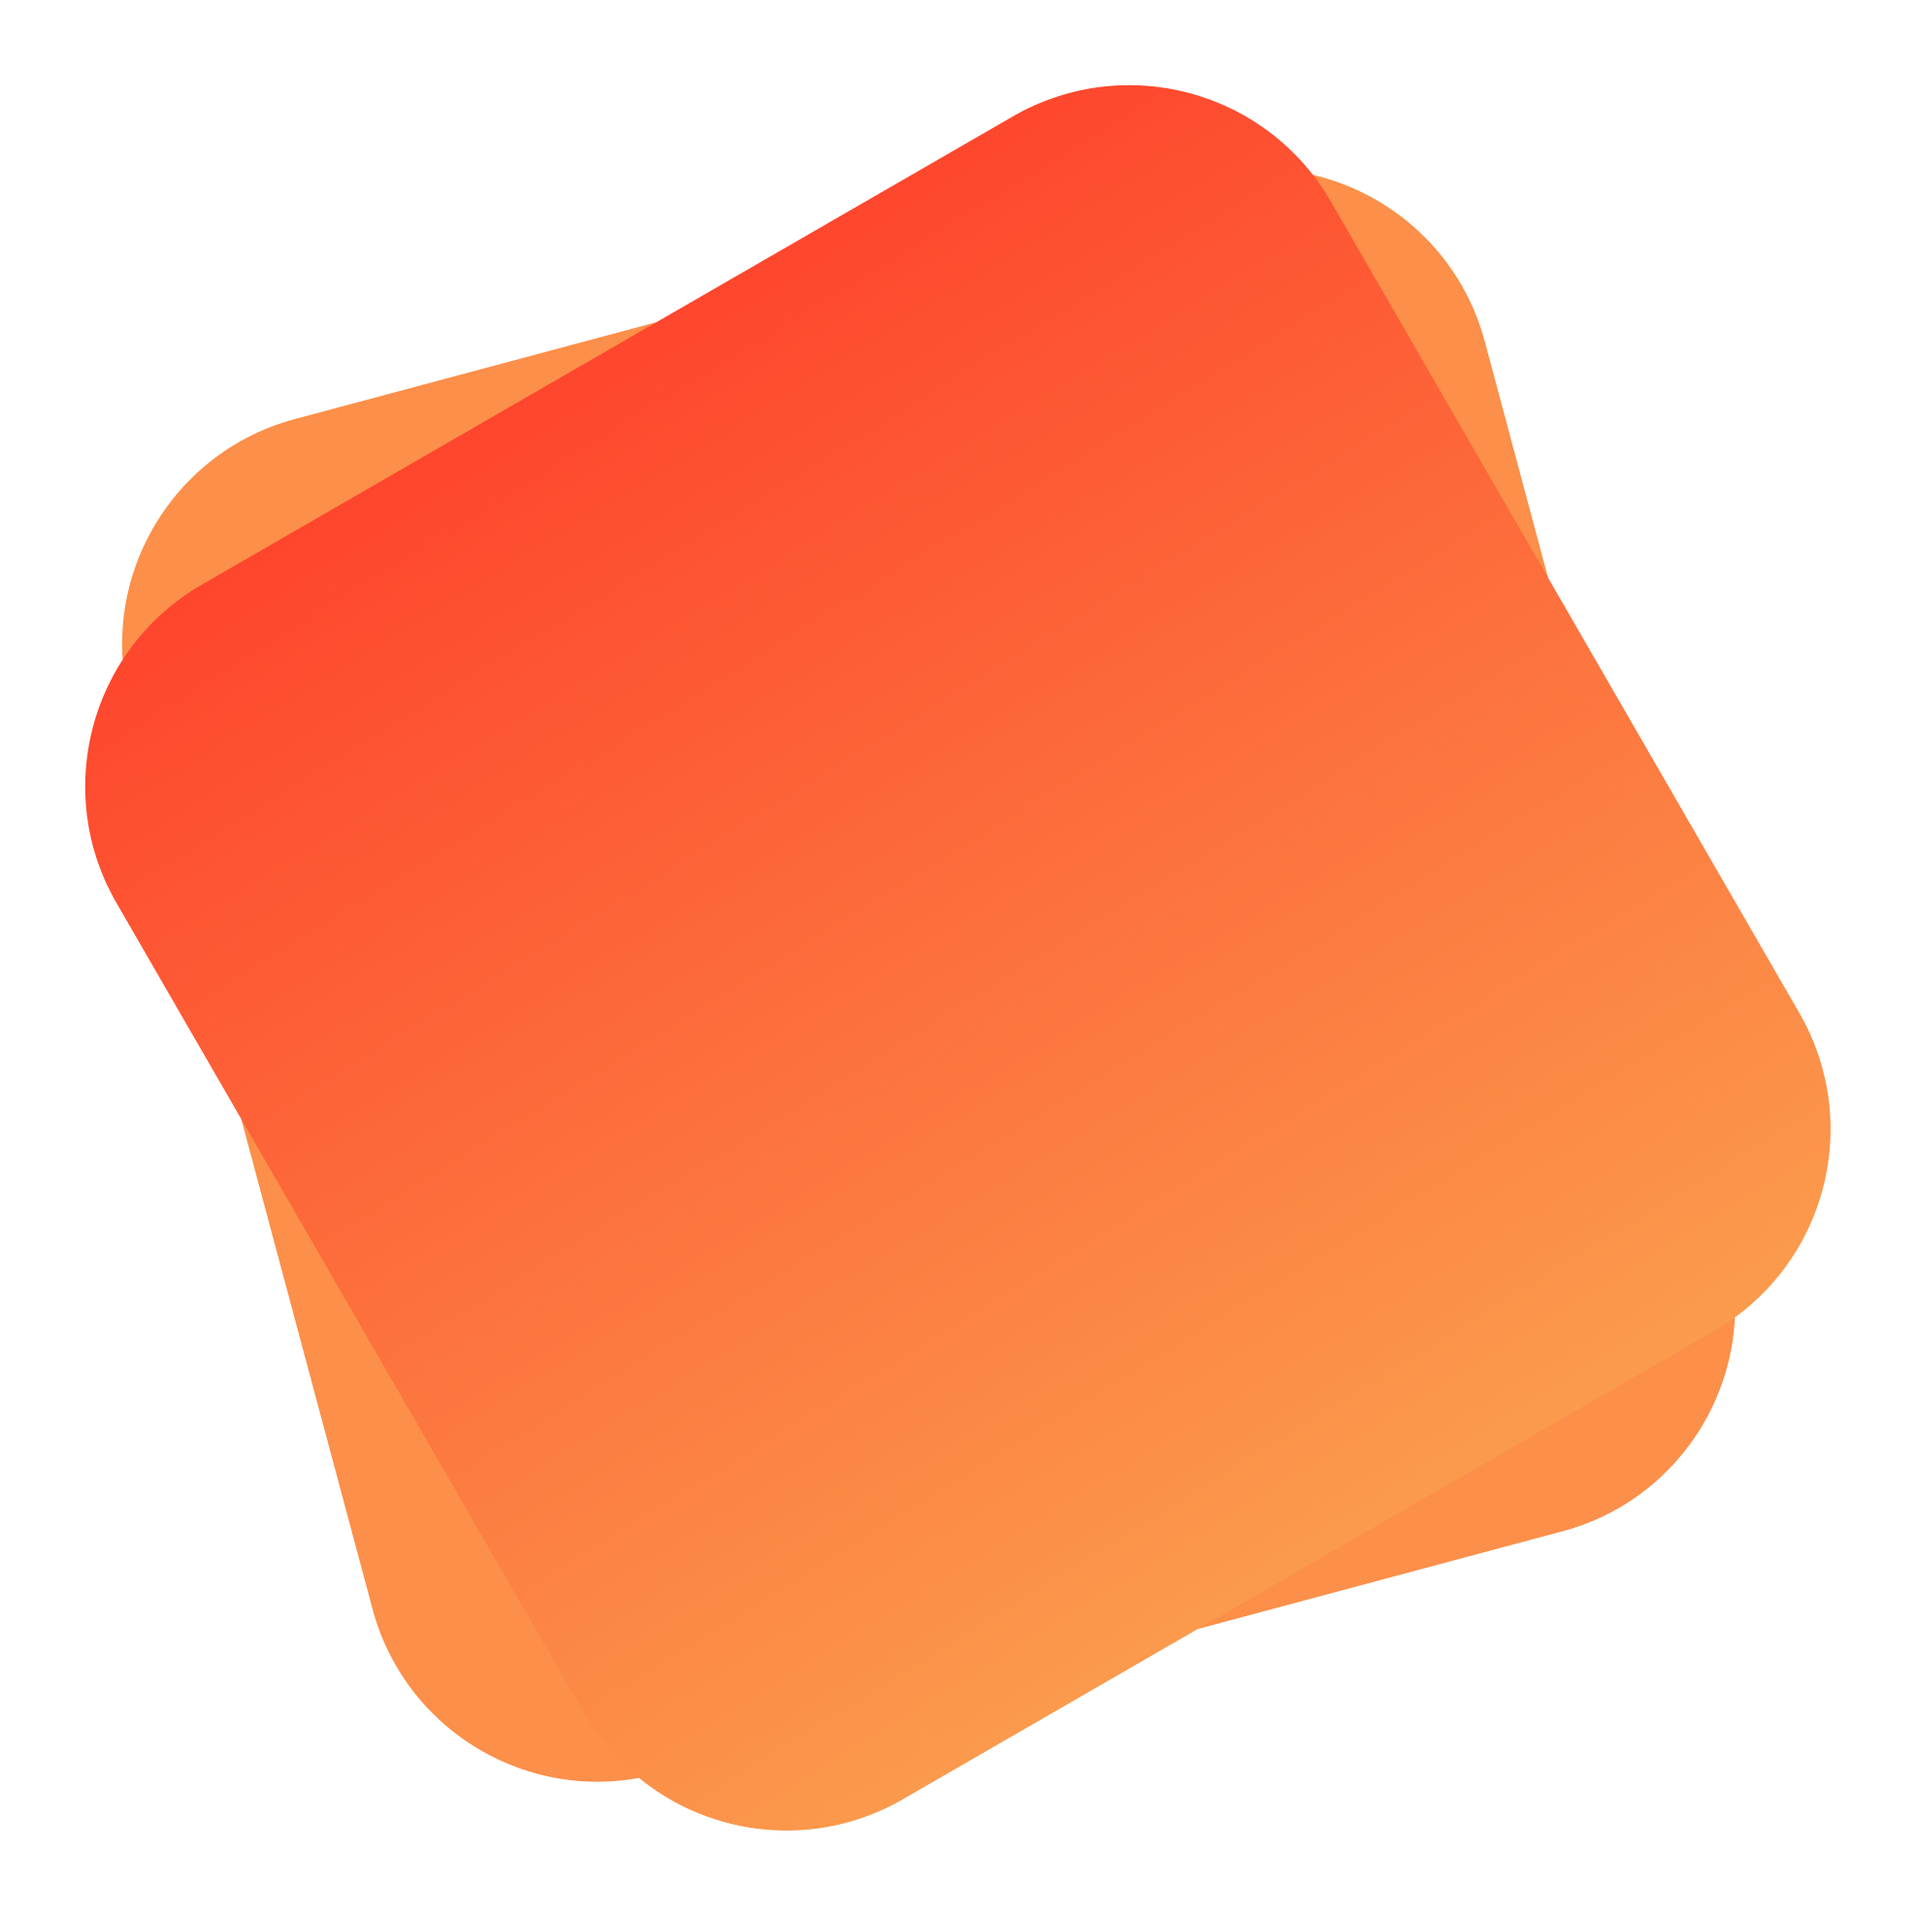
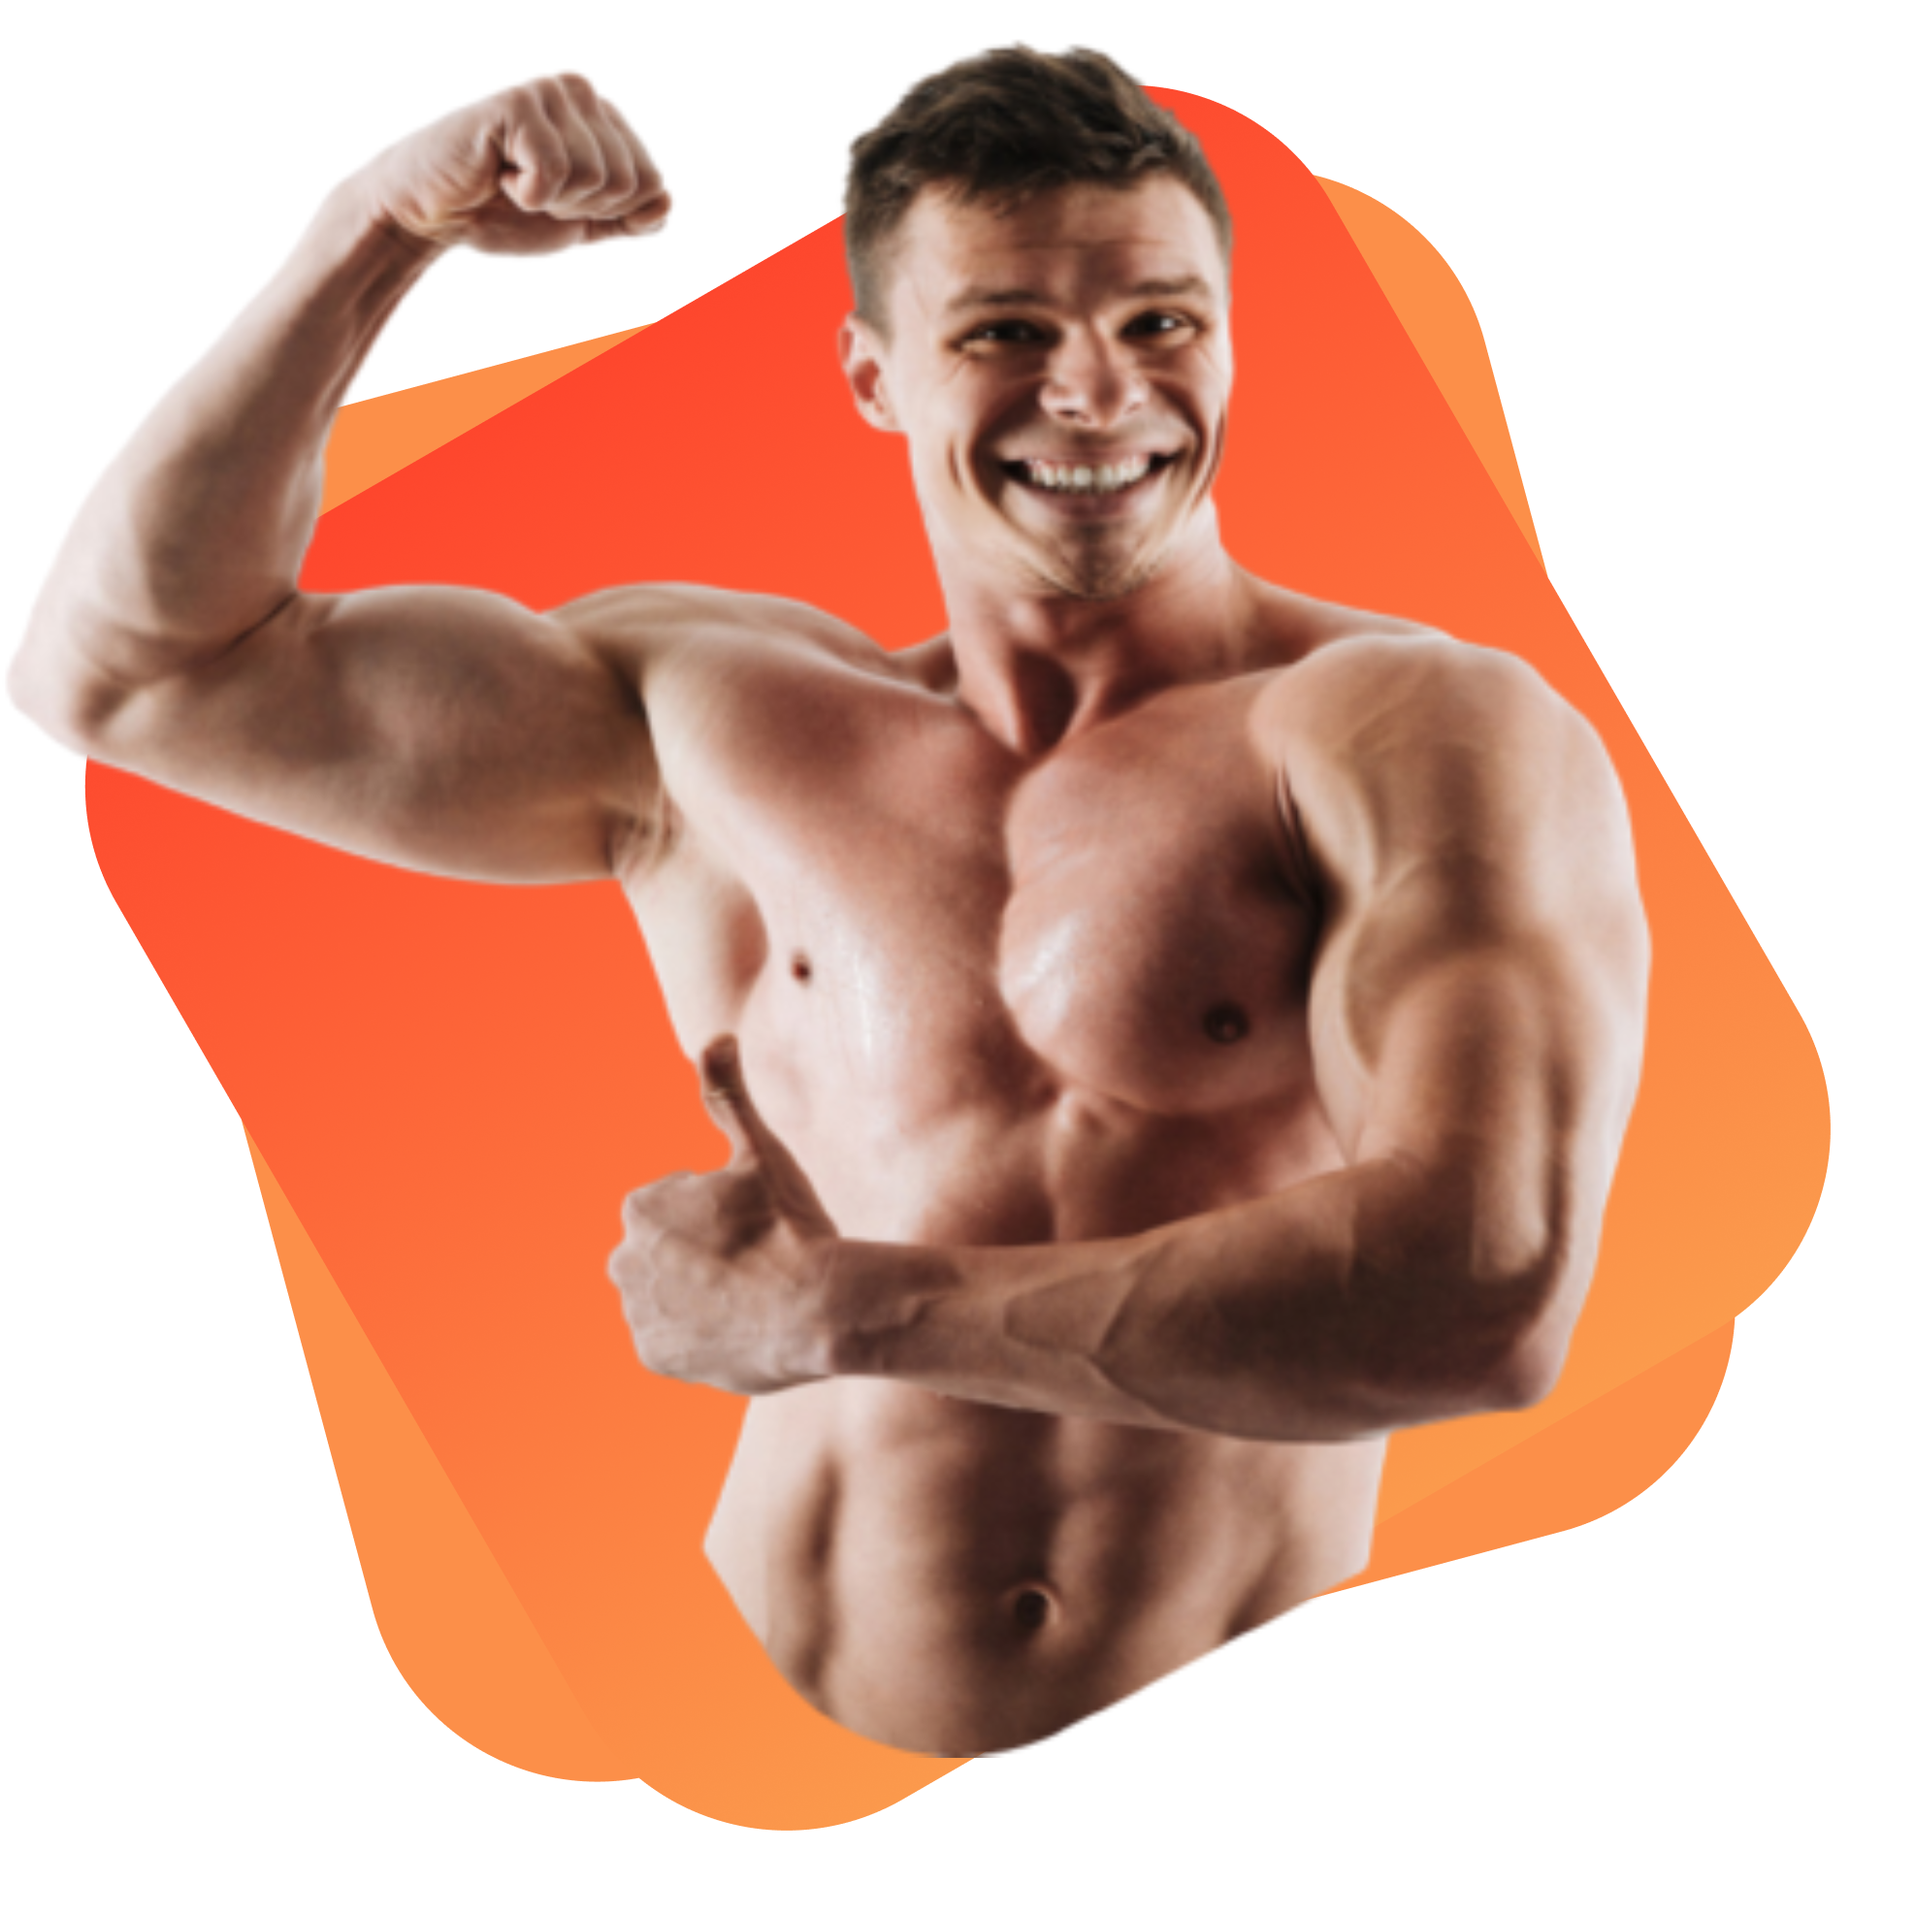
new

diff --git a/index.html b/index.html
@@ -6,7 +6,7 @@
   <meta charset="UTF-8">
   <meta http-equiv="X-UA-Compatible" content="IE=edge">
   <meta name="viewport" content="width=device-width, initial-scale=1.0">
-  <title>Sylhet_Tragedy</title>
+  <title>Eat_Healthy</title>
   <!-- Google Fonts -->
   <link rel="preconnect" href="https://fonts.googleapis.com">
   <link rel="preconnect" href="https://fonts.gstatic.com" crossorigin>
@@ -16,10 +16,100 @@
   <!-- Google Fonts -->
 
   <!-- css link -->
-  <link rel="stylesheet" href="css/style.css">
+  <link rel="stylesheet" href="style.css">
   <!-- css link -->
 </head>
 <body>
+<section id="banner">
+  <div class="food_network">
+    <h1> <span>Skip</span> The Diet,Just Eat Healthy with Food Network</h1>
+    <p>Imagine you don't need a diet because we provide a healthy and delicious food for you</p>
+    <a href="#">order food</a>
+  </div>
+  <div class="ban_img">
+    <img  style="width:600px ;"  src="iamges/Group 8450.png" alt="">
+  </div>
+</section>
+
+<!-- about section start -->
+
+<section id="about">
+  <div class="about_image">
+<img src="iamges/Person Image.png" alt="">
+  </div>
+
+  <div class="about_text">
+    <h1>About Me</h1>
+    <p>Lorem ipsum dolor sit, amet consectetur adipisicing elit. Illum, reprehenderit eius? Tempora corrupti, numquam voluptatibus error cum ullam impedit quaerat.
+    </p>
+    <a href="#">contact me</a>
+  </div>
+</section>
+<!-- about section end -->
+
+
+<!-- recipie section start -->
+<section>
+  <div class="recipie_text">
+    <h1>About Me</h1>
+    <p>Lorem ipsum dolor, sit amet consectetur adipisicing elit. Blanditiis ad illum repellat ipsa amet dolorem qui eligendi dolorum sequi iusto, cupiditate velit quia quidem reprehenderit, sed suscipit repudiandae ab nobis?
+    </p>
+  </div>
+
+<div class="title_img">
+  <div class="title_image_one">
+    <img style="width:550px;"   src="iamges/Project Cover.jpg" alt="">
+    <h1>Recipie Title</h1>
+    <p>Lorem ipsum dolor sit amet consectetur adipisicing elit. Sint quidem dolor aliquam recusandae sapiente nam dolores, non id. Provident, assumenda.</p>
+  </div>
+
+  <div class="title_image_two">
+    <img style="width:550px;" src="iamges/Project Cover.jpg" alt="">
+    <h1>Recipie Title</h1>
+    <p>Lorem ipsum dolor sit amet consectetur adipisicing elit. Sint quidem dolor aliquam recusandae sapiente nam dolores, non id. Provident, assumenda.</p>
+  </div>
+</div>
+
+</section>
+<!-- recipie section end -->
+
+<!-- top footer start -->
+<section id="top_footer">
+
+<div class="digit">
+  <div style="margin-right:70px ;" >
+    <h1>700K</h1>
+    <h5>Youtube Subscribers</h5>
+  </div>
+  <div style="margin-right:70px ;">
+    <h1>2.M</h1>
+    <h5>Instagram Followres</h5>
+  </div >
+  <div style="margin-right:70px ;">
+    <h1>100k</h1>
+    <h5>Dribble Shot Likes</h5>
+  </div>
+</div>
+
+</section>
+
+
+<!-- top footer end -->
+
+
+
+<!-- footer part start -->
+<section id="footer">
+  <div class="footer">
+    <h1><span>Eat</span> Fresh</h1>
+    <p> Eat healthy to live healthy</p>
+  </div>
+</section>
+
+
+
+
+<!-- footer part end -->
 
 </body>
 </html>

diff --git a/style.css b/style.css
@@ -1,0 +1,145 @@
+body{
+    font-family: 'Open Sans', sans-serif; 
+}
+a{
+    text-decoration: none;
+}
+#banner{
+    display: flex;
+    margin-top: 50px;
+}
+.food_network{
+    width: 50%;
+    margin-top: 200px;
+    margin-left: 50px;
+}
+.food_network h1 {
+	font-size: 50px;
+	padding-right: 165px;
+}
+.food_network p {
+	padding-bottom: 35px;
+    padding-top: 30px;
+	padding-right: 170px;
+   font-family: 'Open Sans', sans-serif;
+   font-weight: 400;
+}
+.food_network a {
+font-size: 25px;
+background-image: linear-gradient(brown,tomato);
+padding: 10px 20px;
+color: white;
+border-radius: 50px;
+
+}
+.food_network span{
+    color: tomato;
+}
+.ban_img{
+    width: 50%;
+    margin-top: 150px;
+
+}
+
+#about{
+display: flex;
+margin-top: 150px;
+background-image: url(iamges/Frame\ 59.jpg);
+background-position: center;
+ background-repeat: no-repeat;
+background-size:cover;
+}
+.about_image img{
+    width: 50%;
+    margin-left: 100px;
+    margin-top: 50px;
+    
+}
+
+.about_text{
+width: 50%;
+margin-top: 100px;
+margin-right: 100px;
+}
+
+.about_text a{
+    font-size: 25px;
+    background-image: linear-gradient(brown,tomato);
+    padding: 10px 20px;
+    color: white;
+    border-radius: 50px;
+}
+
+.about_text p{
+   padding-bottom: 40px;
+}
+.recipie_text{
+    text-align: center;
+    margin-top: 80px;
+}
+.recipie_text p {
+	padding: 0px 380px;
+	font-size: 16px;
+	font-family: 'Open Sans', sans-serif;
+	font-weight: 400;
+}
+.title_img{
+    display: flex;
+    text-align: center;
+    margin-top: 50px;
+    margin-right: 40px;
+    margin-left: 5px;
+   
+  
+}
+
+.title_image_one{
+    width: 50%;
+    padding: 10px 2px;
+    padding: 10px;
+    background-color: white;
+    margin-right: 10px;
+    box-shadow: 5px 5px 90px rgba(0, 0, 0, 0.095);
+}
+.title_image_two{
+    width: 50%;
+    padding: 10px 2px;
+    padding: 10px;
+    background-color:white;
+    margin-left: 10px;
+    box-shadow: 3px 3px 90px rgba(0, 0, 0, 0.095);
+}
+
+.digit{
+    display: flex;
+    justify-content: center;
+    justify-content: space-evenly;
+    margin-top: 50px;
+    padding: 30px 15px;
+    background-color:white;
+    margin-left: 100px;
+    margin-right: 130px;
+    border-radius: 15px;
+    box-shadow: 5px 5px 20px rgba(0, 0, 0, 0.095);
+    font-weight: 900;
+   
+}
+#footer{
+    padding: 60px 0px;
+    background-color: black;
+    margin-top: 30px;
+    color: aliceblue;
+    text-align: center;
+}
+.footer h1 span{
+color: chocolate;
+}
+.footer h1{
+color: rgb(113, 111, 109);
+}
+.footer p{
+color: rgb(172, 161, 153);
+font-family: 'Montserrat', sans-serif;
+}
+
+
